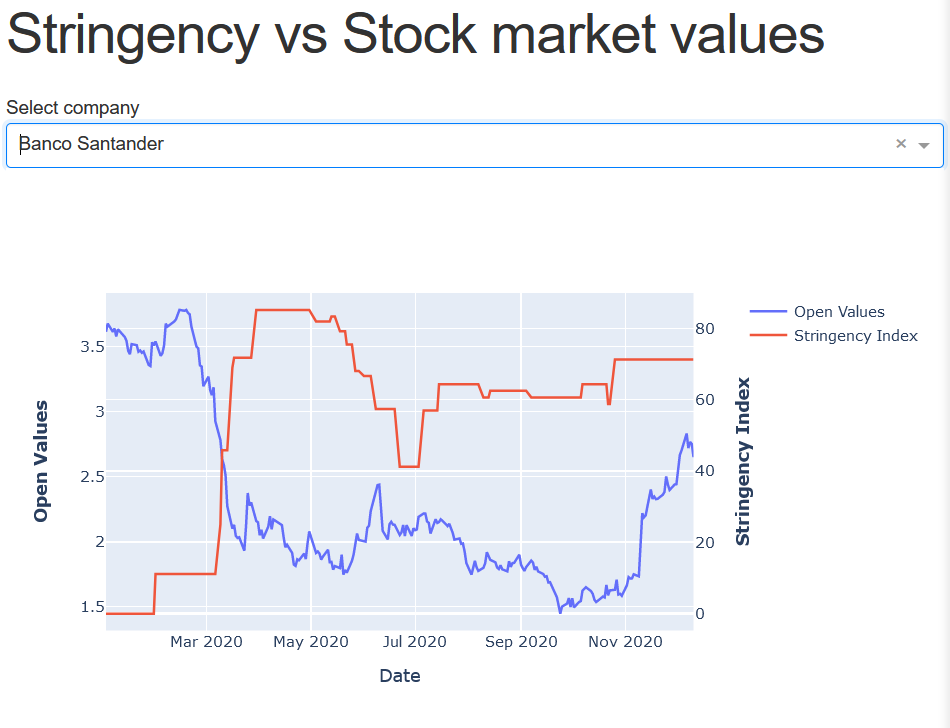
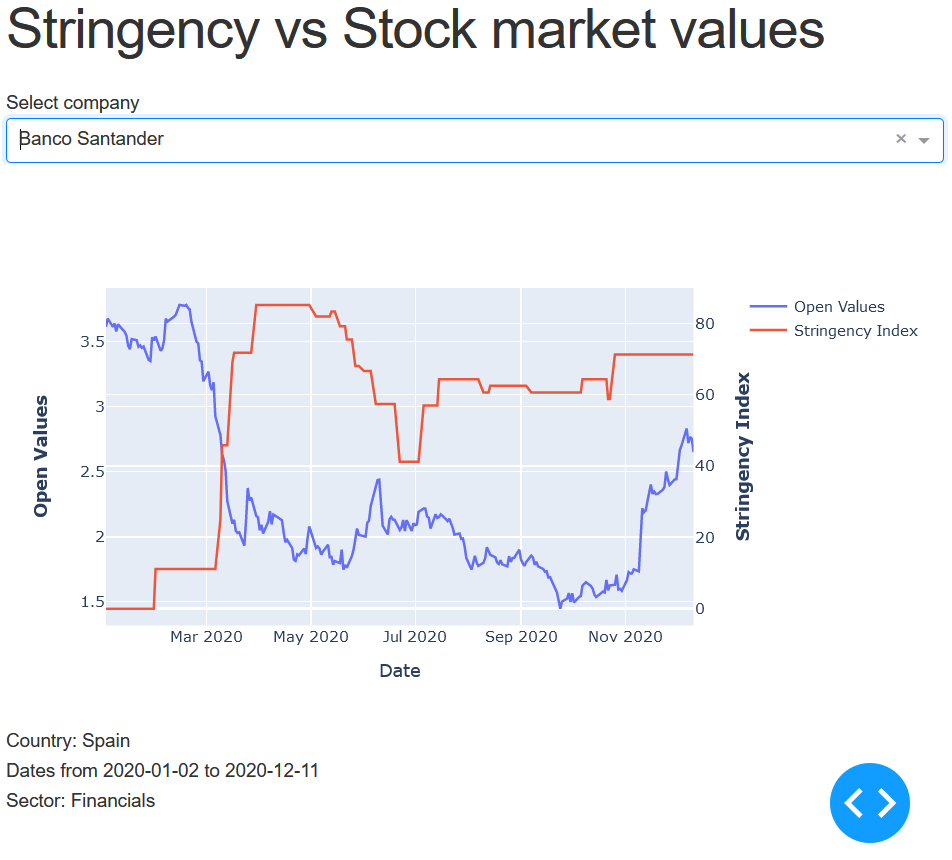
Added text box info to interface

diff --git a/Interface.py b/Interface.py
@@ -19,12 +19,13 @@ companies_df = spark.read.parquet(os.path.join(output_data, "stocks/*.parquet"))
 
 Ec_status_df = spark.read.parquet(os.path.join(output_data, "Ec_status/*.parquet"))
 
+Ec_status_inf = spark.read.parquet(os.path.join(output_data, "Ec_status/*.parquet")).select(["country_code", "stock_id"]).sort("country_code").dropDuplicates().toPandas()
+
 
 import dash
 import dash_core_components as dcc
 import dash_html_components as html
 from dash.dependencies import Input, Output
-import plotly.express as px
 
 external_stylesheets = ['https://codepen.io/chriddyp/pen/bWLwgP.css']
 
@@ -45,7 +46,8 @@ app.layout = html.Div(children=[
             value='GOOGL'
         ),
 
-    dcc.Graph(id='stock-stringency')
+    dcc.Graph(id='stock-stringency'),
+    html.Div(id='info-company', style={'whiteSpace': 'pre-line'})
 ])
 
 @app.callback(
@@ -76,6 +78,13 @@ def update_myPlot(selected_company):
     fig.update_layout(transition_duration=500)
     
     return fig
+
+@app.callback(
+    Output('info-company', 'children'),
+    [Input('company-id', 'value'),Input('company-id', 'options')])
+def update_info(value, options):
+    spain_df_p = Ec_status_df.filter((Ec_status_df.value_type=='Open') & (Ec_status_df.stock_id==value)).sort("Date").toPandas()
+    return "Country: {}\nDates from {} to {}\nSector: {}".format(countries_df[countries_df['country_code']==Ec_status_inf[Ec_status_inf['stock_id']==value].country_code.iloc[0]].country.iloc[0], spain_df_p.date.min(), spain_df_p.date.max(), companies_df[companies_df['stock_id']==value].sector.iloc[0])
 
 if __name__ == '__main__':
     app.run_server(debug=True)

diff --git a/README.md b/README.md
@@ -106,7 +106,7 @@ Here is a screenshot of the Interface:
 
 Please bear in mind that the restrictions imposed by each country (measured by the Stringency Index value) may have or haven't influence the open values of a company stock. This interface calculates the relation between these two variables but **the Stringency Index value should not be considered as the only or as the main responsible for the variation of the Stock market values**. Instead, it should be considered as another factor that may represent other medical, social and economic conditions in each country, which may have affected (directly or indirectly) the stock prices of the Company displaying.
 
-In addition, it is important to remember that the stock values of multinational companies such as Google (Alphabetic Inc.) are not only affected by the on-going restrictions in the country where it is headquartered but probably, by restrictions in other countries where the company operates. 
+In addition, it is important to remember that the stock values of multinational companies such as Google (Alphabetic Inc.) are not only affected by the on-going restrictions in the country where it is headquartered but also, by restrictions in other countries where the company operates. 
 If a multinational company is dual-listing its shares it can be useful to select the ticker for a specific exchange, e.g. Selecting SAN.MC (Madrid Stock Exchange) to assess the economic impact of Spanish restrictions on the Santander Bank stock prices.
 ***
     
